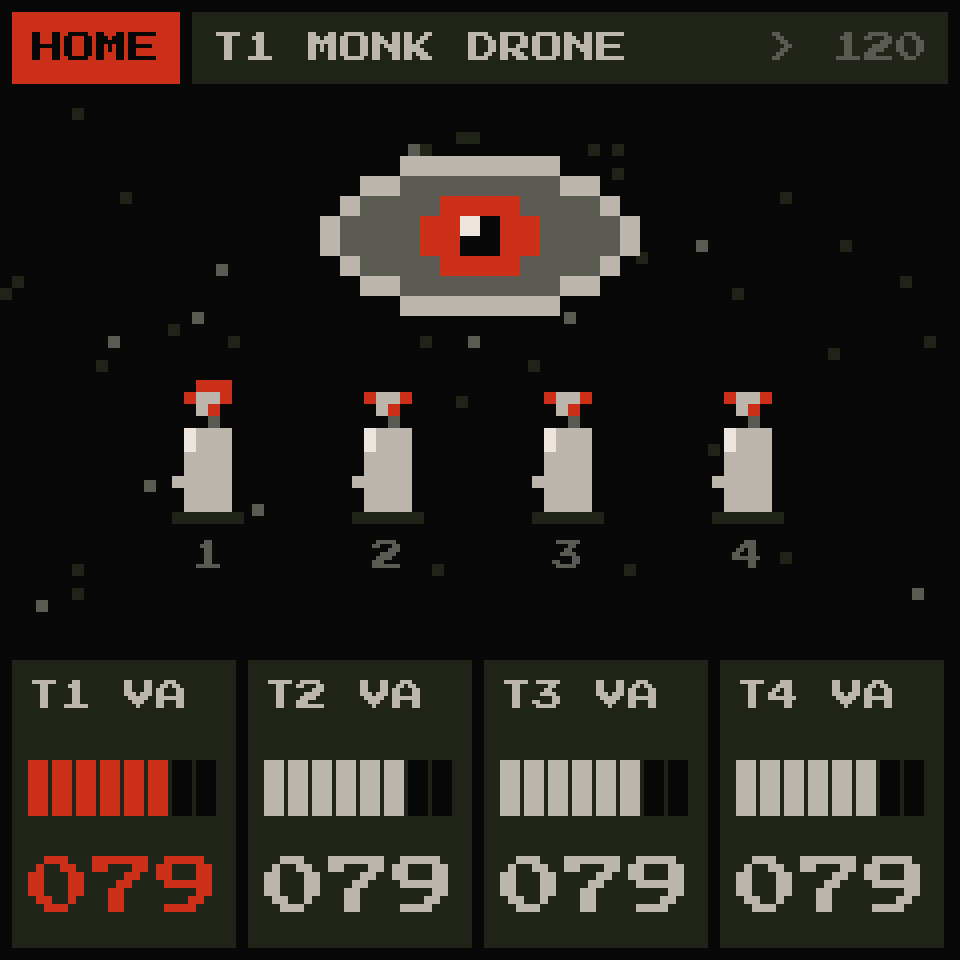
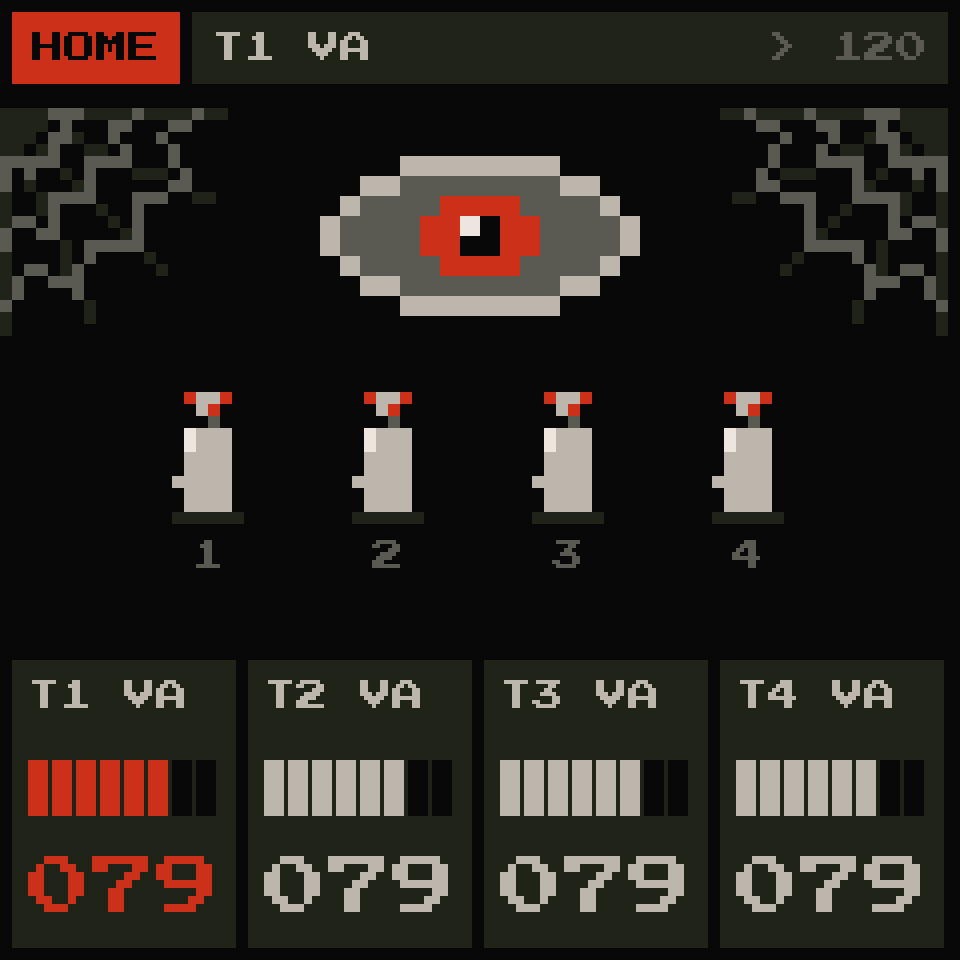
Darker pictures: webs on HOME, fangs in the VOICE mouth, bats at boot
HOME's stars are two spider webs now, in the top corners (five threads
from each corner, three sagging rings; their cells glint as the stars
did, more the louder it plays). The VOICE mouth has two fangs from its
upper lip, the longer the more it is open (A, O; I hardly). At boot
the eye stays shut while three bats fly across (~0.15 .. 1 s, red eyes,
wings beating), then it snaps open (1.1 s); the boot is as long as
before (3 s), only what moves drawn again. Existing pictures changed,
none added on top; the screen only (RAM: the webs' cells, ~1.3 KB).

diff --git a/firmware/src/ui.c b/firmware/src/ui.c
@@ -506,13 +506,15 @@ static void ui_eye(int32_t x, int32_t y, int32_t k, int32_t dx, int32_t dy)
  * what the audio ISR left in vis_pk, vis_lr (its peaks) and the notes on (their pitch). Only what changed is drawn.
  *   candles: LEVEL the most a flame can be (muted, LEVEL 0: out, a wisp of smoke); a silent track's burns low, a shape
  *   now and then; a sounding one's grows with its peak, dances (a row up or down) and flickers (three shapes, uneven)
- *   stars: the fog's pixels, a few at a time brighten to light and fade back; more of them the louder it is
+ *   webs (V2: were stars): two spider webs in the top corners, their threads' cells a few at a time brighten to light
+ *   and fade back (dew catching the light); more of them the louder it is
  *   the eye: its iris goes towards the sound (left, right: the output's balance; up, down: high, low notes), a cell at
  *   a time; it blinks now and then, and at a sudden loud hit; silent ~4 s, it half-closes and drifts (dozing); the
  *   first sound wakes it with a blink */
-#define NSTAR 46u
-static uint8_t sk_x[NSTAR], sk_y[NSTAR], sk_b[NSTAR], sk_ph[NSTAR], sk_ok;   /* a star: where, M (else D), its sparkle's
-                                                 * frame (0: none) */
+#define NWEB 330u
+static uint8_t sk_x[NWEB], sk_y[NWEB], sk_b[NWEB], sk_ph[NWEB], sk_ok;   /* a web's cell (3 px, from y 27): where, M (a
+                                                 * ring; else D, a thread), its sparkle's frame (0: none) */
+static uint32_t sk_n;                           /* the webs' cells */
 static uint8_t cn_h[NT], cn_s[NT], cn_n[NT];    /* a candle: its flame's rows (0: out), shape, frames to its next shape */
 static int32_t ey_k = 4, ey_dx, ey_dy, ey_tx, ey_ty, ey_bl, ey_doze;   /* the eye: lids, iris, its target, the blink's
                                                  * frame (0: none), dozing */
@@ -527,13 +529,45 @@ static uint16_t sk_col(uint32_t i)              /* a star's colour now: D or M; 
     uint32_t p = sk_ph[i];
     return !p ? (sk_b[i] ? UI_M : UI_D) : p >= 4u && p <= 9u ? UI_L : UI_M;
 }
-static void sk_init(void)                       /* the stars where Main has its fog (the concepts' random, seed 7) */
+static void sk_add(int32_t x, int32_t y, uint32_t ring)   /* a web's cell (once; a ring's is M) */
 {
     uint32_t i;
-    ui_rnd_s = 7;
-    for (i = 0; i < NSTAR; i++) {
-        sk_x[i] = (uint8_t)ui_rnd(79), sk_y[i] = (uint8_t)ui_rnd(44);
-        sk_b[i] = ui_rnd(100) >= 65u;
+    if (x < 0 || x > 78 || y < 0 || y > 43) return;
+    for (i = 0; i < sk_n; i++)
+        if (sk_x[i] == x && sk_y[i] == y) { sk_b[i] |= (uint8_t)ring; return; }
+    if (sk_n >= NWEB) return;
+    sk_x[sk_n] = (uint8_t)x, sk_y[sk_n] = (uint8_t)y, sk_b[sk_n] = (uint8_t)ring, sk_ph[sk_n] = 0, sk_n++;
+}
+static void sk_line(int32_t x0, int32_t y0, int32_t x1, int32_t y1, uint32_t ring)   /* (Bresenham) */
+{
+    int32_t dx = x1 > x0 ? x1 - x0 : x0 - x1, dy = y1 > y0 ? y0 - y1 : y1 - y0, sx = x1 > x0 ? 1 : -1, sy = y1 > y0 ? 1 : -1,
+            e = dx + dy, e2;
+    for (;;) {
+        sk_add(x0, y0, ring);
+        if (x0 == x1 && y0 == y1) return;
+        e2 = 2 * e;
+        if (e2 >= dy) e += dy, x0 += sx;
+        if (e2 <= dx) e += dx, y0 += sy;
+    }
+}
+static void sk_init(void)                       /* (V2) the webs: in each top corner five threads out from it, four
+                                                 * rings across them, sagging towards the corner between threads (each web ~150 cells) */
+{
+    static const int8_t TH[5][2] = {{18, 0}, {17, 7}, {13, 13}, {7, 17}, {0, 18}};   /* (0, 22.5 .. 90 degrees) */
+    static const int8_t WEB_R[3] = {6, 11, 16};
+    int32_t c, k, r;
+    sk_n = 0;
+    for (c = 0; c < 2; c++) {
+        int32_t ox = c ? 78 : 0, sx = c ? -1 : 1;
+        for (k = 0; k < 5; k++) sk_line(ox, 0, ox + sx * TH[k][0], TH[k][1], 0);
+        for (r = 0; r < 3; r++)
+            for (k = 0; k < 4; k++) {
+                int32_t x0 = TH[k][0] * WEB_R[r] / 18, y0 = TH[k][1] * WEB_R[r] / 18;
+                int32_t x1 = TH[k + 1][0] * WEB_R[r] / 18, y1 = TH[k + 1][1] * WEB_R[r] / 18;
+                int32_t mx = (x0 + x1) * 9 / 20, my = (y0 + y1) * 9 / 20;   /* (the sag: the middle a tenth in) */
+                sk_line(ox + sx * x0, y0, ox + sx * mx, my, 1);
+                sk_line(ox + sx * mx, my, ox + sx * x1, y1, 1);
+            }
     }
     sk_ok = 1;
 }
@@ -546,7 +580,7 @@ static void pic_home(void)                      /* Main: the stars, the eye, a c
     uint32_t i;
     int32_t t;
     if (!sk_ok) sk_init();
-    for (i = 0; i < NSTAR; i++) ui_rect(sk_x[i] * 3, 27 + sk_y[i] * 3, 3, 3, sk_col(i));
+    for (i = 0; i < sk_n; i++) ui_rect(sk_x[i] * 3, 27 + sk_y[i] * 3, 3, 3, sk_col(i));
     ui_eye(80, 39, ey_k, ey_dx, ey_dy);
     for (t = 0; t < (int32_t)NT; t++) {         /* four candles, 27 px apart, centred */
         int32_t x = 43 + t * 45, y = 92, h = cn_h[t], r;
@@ -598,7 +632,7 @@ static void ui_home_frame(int draw)             /* a frame of HOME's picture (dr
         cn_s[t] = (uint8_t)s;
     }
 
-    for (i = 0; i < NSTAR; i++)                 /* the stars: the sparkling ones on; new ones (louder: more) */
+    for (i = 0; i < sk_n; i++)                  /* the webs: the sparkling cells on; new ones (louder: more) */
         if (sk_ph[i]) {
             uint16_t c = sk_col(i);
             sk_ph[i] = sk_ph[i] >= 12u ? 0u : (uint8_t)(sk_ph[i] + 1u);
@@ -606,7 +640,7 @@ static void ui_home_frame(int draw)             /* a frame of HOME's picture (dr
         }
     for (t = 0; t < 1u + loud / 96u; t++)
         if (an_rnd(64) < 3u + loud / 12u) {
-            i = an_rnd(NSTAR);
+            i = an_rnd(sk_n);
             if (!sk_ph[i]) sk_ph[i] = 1;
         }
 
@@ -892,7 +926,8 @@ static void pic_sample(void)                    /* the slot's sample, the loop (
     }
 }
 
-static void pic_voice(void)                     /* a mouth singing VOWEL: A open, E wide, I narrow, O round, U small */
+static void pic_voice(void)                     /* a mouth singing VOWEL: A open, E wide, I narrow, O round, U small;
+                                                 * (V2) two fangs from its upper lip, the longer the more it is open */
 {
     static const int8_t RX[5] = {14, 17, 18, 9, 6}, RY[5] = {10, 6, 3, 10, 6};
     const volatile int32_t *p = trk[sel].p[ENG_VOICE];
@@ -914,7 +949,11 @@ static void pic_voice(void)                     /* a mouth singing VOWEL: A open
             int32_t dx = x - 27, dy = y - 15, o = (dx * dx) * (ry + 3) * (ry + 3) + (dy * dy) * (rx + 3) * (rx + 3),
                     oo = (rx + 3) * (rx + 3) * (ry + 3) * (ry + 3), n = (dx * dx) * ry * ry + (dy * dy) * rx * rx,
                     nn = rx * rx * ry * ry;
-            if (o <= oo) ui_cell(x, y, n <= nn ? (dy > ry / 2 && dy * 3 > ry && n * 4 <= nn * 3 ? ui_acc : UI_K) : UI_L);
+            int32_t fd = dx < 0 ? -dx : dx, fx = rx / 2 > 2 ? rx / 2 : 2, fl = ry * 2 / 3;   /* (a fang: at +-fx,
+                                                 * fl cells long, a cell narrower its last third) */
+            int32_t fang = fd >= fx - 1 && fd <= fx + 1 && dy < 0 && dy <= -ry + fl - (fd != fx ? fl / 3 : 0);
+            if (o <= oo) ui_cell(x, y, n <= nn ? (fang ? UI_W : dy > ry / 2 && dy * 3 > ry && n * 4 <= nn * 3 ? ui_acc : UI_K) :
+                                 UI_L);
         }
 }
 
@@ -1712,10 +1751,33 @@ static uint32_t ui_pic_key(void)
 }
 
 /* ---- the screen: the boot, then the page, only what changed */
-/* Boot, UI_BOOT_MS at power-on (the project loaded before): the eye opens over the first second, the drips run down from
- * the bar over the three; only those two drawn again, a frame every UI_ANIM_MS */
+/* Boot, UI_BOOT_MS at power-on (the project loaded before): (V2) the eye shut while three bats fly across it (~0.15 ..
+ * 1 s), then it snaps open (~0.1 s); the drips run down from the bar over the three; only what moved drawn again, a
+ * frame every UI_ANIM_MS */
 static const int8_t DRIP[30] = {0, 3, 0, 0, 6, 0, 2, 0, 0, 0, 8, 0, 0, 1, 0, 0, 4, 0, 0, 0, 7, 0, 0, 2, 0, 0, 5, 0, 0, 0};
-static uint32_t ui_boot_t, bt_k, bt_d;          /* from when; the lids, the drips' time (0 .. UI_BOOT_MS) shown */
+static uint32_t ui_boot_t, bt_k, bt_d, bt_e;    /* from when; the lids, the drips' time (0 .. UI_BOOT_MS), the bats'
+                                                 * time shown */
+#define BT_OPEN 1100u                           /* (the eye: shut till then, a frame half open, then open) */
+static const int16_t BAT_T[3] = {150, 330, 540}, BAT_Y[3] = {50, 70, 58};   /* a bat: from when (ms), at what height */
+#define BAT_MS 480                              /* (across the screen in this long) */
+static int32_t bat_x(uint32_t i, uint32_t e)    /* bat i's left edge at e (ms), or -999 not flying (odd ones fly left) */
+{
+    int32_t d = (int32_t)e - BAT_T[i];
+    if (d < 0 || d >= BAT_MS) return -999;
+    d = d * 270 / BAT_MS;
+    return i & 1u ? 240 - d : d - 30;
+}
+static void bat_draw(uint32_t e)                /* the bats flying at e: a mid-grey silhouette, red eyes, wings beating */
+{
+    static const char *const BAT_UP[5] = {"m.......m", "mm.....mm", ".mmm.mmm.", "..mamam..", "...mmm..."};
+    static const char *const BAT_DN[5] = {"...m.m...", "..mamam..", ".mmmmmmm.", "mm.....mm", "m.......m"};
+    uint32_t i;
+    for (i = 0; i < 3u; i++) {
+        int32_t x = bat_x(i, e), d = (int32_t)e - BAT_T[i];
+        if (x == -999) continue;
+        ui_sprite(x, BAT_Y[i] + (d / 60 % 2 ? 2 : 0), 3, d / 110 % 2 ? BAT_DN : BAT_UP, 5);
+    }
+}
 #define BOOT_LINE "FM-1 / DEATHDREAM / V" APP_VER
 static const char *bt_note;                     /* the boot screen's last line, if not BOOT_LINE ("INSTALLING SAMPLES") */
 static int32_t bt_len(uint32_t x) { return DRIP[x] * (int32_t)bt_d / (int32_t)UI_BOOT_MS; }   /* a drip's cells now */
@@ -1723,6 +1785,7 @@ static void ui_boot_draw(void)                  /* Boot: the eye, GR!MM, the dri
 {
     int32_t x, y;
     ui_eye(80, 48, (int32_t)bt_k, 0, 0);
+    bat_draw(bt_e);
     ui_text(120 - 12 * 5, 100, APP_NAME, 3, UI_L);
     for (y = 0; y < 10; y++)
         for (x = 0; x < 30; x++)
@@ -1731,15 +1794,27 @@ static void ui_boot_draw(void)                  /* Boot: the eye, GR!MM, the dri
 }
 static void ui_boot(void)
 {
-    ui_boot_t = fm1_ms, bt_k = bt_d = 0;
+    ui_boot_t = fm1_ms, bt_k = bt_d = bt_e = 0;
     ui_region(0, 0, 240, 240, UI_K, ui_boot_draw);
 }
 static void ui_boot_frame(void)
 {
     static uint32_t t;
-    uint32_t e = fm1_ms - ui_boot_t, k = e >= 1000u ? 4u : e * 4u / 1000u, x, was = 0, now = 0;
+    uint32_t e = fm1_ms - ui_boot_t, k = e < BT_OPEN ? 0u : e < BT_OPEN + UI_ANIM_MS ? 2u : 4u, x, i, was = 0, now = 0;
+    uint32_t e0 = bt_e;                         /* (the bats' time last drawn) */
     if (fm1_ms - t < UI_ANIM_MS) return;
     t = fm1_ms;
+    for (i = 0; i < 3u; i++) {                  /* the bats: where each was and is now drawn again */
+        int32_t a = bat_x(i, e0), b = bat_x(i, e), y = BAT_Y[i], x0, x1;
+        if (a == -999 && b == -999) continue;
+        if (a == -999) a = b;
+        if (b == -999) b = a;
+        x0 = a < b ? a : b, x1 = (a < b ? b : a) + 27;   /* (where it was and is: on the screen only) */
+        x0 = x0 < 0 ? 0 : x0, x1 = x1 > 240 ? 240 : x1;
+        bt_e = e;
+        if (x1 > x0) ui_region(x0, y, x1 - x0, 17, UI_K, ui_boot_draw);
+    }
+    bt_e = e;
     if (k != bt_k) {
         bt_k = k;
         ui_region(80, 48, 80, 40, UI_K, ui_boot_draw);
